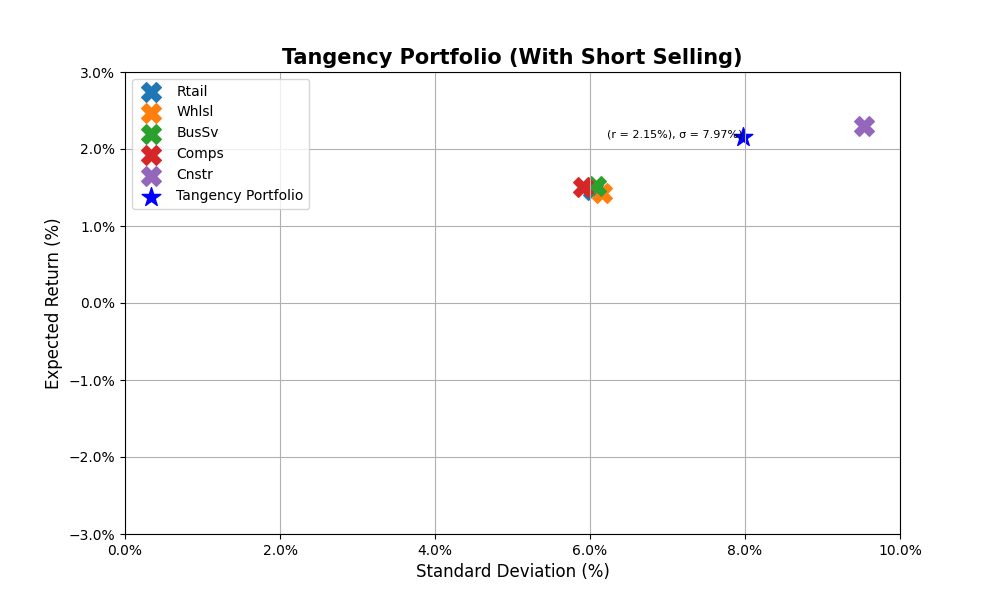
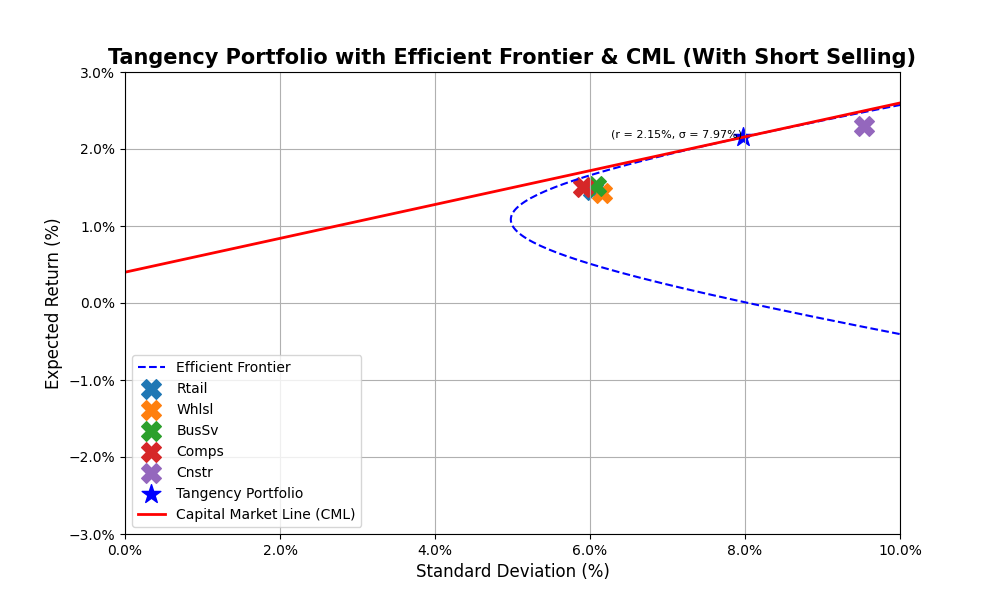
send

diff --git a/Projet.py b/Projet.py
@@ -61,129 +61,59 @@ n_assets = len(expected_returns)
 ones = np.ones(n_assets)
 
 def calculate_mvp_weights(cov_matrix, allow_short_selling=False):
-    """
-    Calculate Minimum Variance Portfolio (MVP) weights using an analytical approach.
-
-    Parameters:
-    -----------
-    cov_matrix : np.array
-        Covariance matrix of asset returns
-    allow_short_selling : bool, optional
-        Whether to allow negative weights (default: False)
-
-    Returns:
-    --------
-    np.array: MVP weights
-    """
     num_assets = cov_matrix.shape[0]
     ones = np.ones(num_assets)
-
-    # Compute the inverse of the covariance matrix
     inv_cov_matrix = np.linalg.inv(cov_matrix)
-
-    # Calculate MVP parameters
-    A = ones.T @ inv_cov_matrix @ ones  # Scalar value
+    A = ones.T @ inv_cov_matrix @ ones
     B = ones.T @ inv_cov_matrix @ expected_returns
-    mvp_weights = (inv_cov_matrix @ ones) / A  # MVP weights formula
-
+    mvp_weights = (inv_cov_matrix @ ones) / A
     if allow_short_selling:
         return mvp_weights
     else:
-        # If short-selling is NOT allowed, use numerical optimization to enforce constraints
-        from scipy.optimize import minimize
-
-        # Constraints: sum of weights = 1
         constraints = [{'type': 'eq', 'fun': lambda x: np.sum(x) - 1}]
-        bounds = [(0, 1) for _ in range(num_assets)]  # No short selling
-
-        # Initial guess: Equal weights
+        bounds = [(0, 1) for _ in range(num_assets)]
         initial_weights = np.ones(num_assets) / num_assets
-
-        # Optimization
-        result = minimize(
-            lambda w: w.T @ cov_matrix @ w,  # Minimize portfolio variance
-            initial_weights,
-            method='SLSQP',
-            bounds=bounds,
-            constraints=constraints
-        )
-
+        result = minimize(lambda w: w.T @ cov_matrix @ w, initial_weights, method='SLSQP', bounds=bounds, constraints=constraints)
         if result.success:
             return result.x
         else:
             raise ValueError("Optimization failed: " + result.message)
 
 def plot_efficient_frontier(returns, expected_returns, cov_matrix, mvp_weights):
-    """
-    Plot the efficient frontier with industries and MVP point
-    
-    Parameters:
-    -----------
-    returns : pd.DataFrame
-        Returns data
-    expected_returns : pd.Series
-        Expected returns for each asset
-    cov_matrix : pd.DataFrame
-        Covariance matrix
-    mvp_weights : np.array
-        MVP portfolio weights
-    """
-    # Calculate MVP return and risk
-    mvp_return = np.dot(mvp_weights, expected_returns) 
+    mvp_return = np.dot(mvp_weights, expected_returns)
     mvp_risk = np.sqrt(mvp_weights.T @ cov_matrix @ mvp_weights)
-        
-    # Convert to percentages for plotting
     mvp_return_plot = mvp_return * 100
     mvp_risk_plot = mvp_risk * 100
     
+    mu_vals = np.linspace(min(expected_returns) - 0.02, max(expected_returns) + 0.04, 300)
+    ones = np.ones(len(expected_returns))
+    inv_cov = np.linalg.inv(cov_matrix)
+    A = ones.T @ inv_cov @ ones
+    B = ones.T @ inv_cov @ expected_returns
+    C = expected_returns.T @ inv_cov @ expected_returns
+    Delta = A * C - B**2
+    sigma_vals = np.sqrt(np.maximum((A * mu_vals**2 - 2 * B * mu_vals + C) / Delta, 0)) * 100
+    
     plt.figure(figsize=(10, 6))
     plt.grid(True)
+    plt.plot(sigma_vals, mu_vals * 100, label="Efficient Frontier", color="blue")
     
-    # Plot individual industries
     for industry in expected_returns.index:
-        plt.scatter(returns[industry].std()* 100, 
-                   expected_returns[industry] * 100,
-                   marker='X', s=200, label=industry)
+        plt.scatter(returns[industry].std() * 100, expected_returns[industry] * 100, marker='X', s=200, label=industry)
     
-    # Plot MVP point
-    plt.scatter(mvp_risk_plot, mvp_return_plot, 
-               color="red", marker="*", s=200, 
-               label="Minimum Variance Portfolio")
+    plt.scatter(mvp_risk_plot, mvp_return_plot, color="red", marker="*", s=200, label="Minimum Variance Portfolio")
+    plt.annotate(f"(r = {mvp_return_plot:.2f}%, σ = {mvp_risk_plot:.2f}%)", (mvp_risk_plot, mvp_return_plot), xytext=(10, 10), textcoords='offset points', fontsize=8)
     
-    # Add MVP coordinates
-    plt.annotate(f"(r = {mvp_return_plot:.2f}%, σ = {mvp_risk_plot:.2f}%)",
-                (mvp_risk_plot, mvp_return_plot),
-                xytext=(10, 10), textcoords='offset points',
-                fontsize=8)
-    
-    # Format axes
     plt.gca().xaxis.set_major_formatter(mtick.PercentFormatter())
     plt.gca().yaxis.set_major_formatter(mtick.PercentFormatter())
-    
-    plt.xlim(0, 10)
-    plt.ylim(-3, 3)
-    
-    # Labels and title
     plt.xlabel("Standard Deviation (%)", fontsize=12)
     plt.ylabel("Expected Return (%)", fontsize=12)
-    plt.title("Efficient Frontier with MVP (With Short Selling)", 
-             fontsize=15, fontweight='bold')
+    plt.title("Efficient Frontier with MVP (With Short Selling)", fontsize=15, fontweight='bold')
     plt.legend()
-    
     plt.savefig("efficient_frontierA1.png", bbox_inches='tight', dpi=300)
     plt.show()
 
-# Convert percentage returns to decimal
-returns = portfolios_data / 100
-returns = returns.dropna()
-
-expected_returns = returns.mean()
-cov_matrix = returns.cov()
-
-# Calculate MVP weights
 mvp_weights = calculate_mvp_weights(cov_matrix, allow_short_selling=True)
-
-# Plot the efficient frontier
 plot_efficient_frontier(returns, expected_returns, cov_matrix, mvp_weights)
 
 
@@ -266,6 +196,18 @@ tangency_sharpe_ratio = tangency_portfolio['sharpe_ratio']
 # Remove the old MVP point
 plt.figure(figsize=(10, 6))
 
+# Generate efficient frontier
+mu_vals = np.linspace(min(expected_returns) - 0.02, max(expected_returns) + 0.04, 300)
+ones = np.ones(len(expected_returns))
+inv_cov = np.linalg.inv(cov_matrix)
+A = ones.T @ inv_cov @ ones
+B = ones.T @ inv_cov @ expected_returns
+C = expected_returns.T @ inv_cov @ expected_returns
+Delta = A * C - B**2
+sigma_vals = np.sqrt(np.maximum((A * mu_vals**2 - 2 * B * mu_vals + C) / Delta, 0)) * 100
+
+# Plot the Efficient Frontier (Parabola)
+plt.plot(sigma_vals, mu_vals * 100, label="Efficient Frontier", color="blue", linestyle='dashed')
 
 # Mark each individual industry on the plot
 for industry in expected_returns.index:
@@ -277,7 +219,15 @@ plt.scatter(tangency_risk * 100, tangency_return * 100, color="blue", marker="*"
 
 # Annotate the tangency portfolio point
 plt.text(tangency_risk * 100, tangency_return * 100, 
-         f"(r = {tangency_return*100:.2f}%), σ = {tangency_risk*100:.2f}%)", fontsize=8, ha='right')
+         f"(r = {tangency_return*100:.2f}%, σ = {tangency_risk*100:.2f}%)", fontsize=8, ha='right')
+
+# ---- ADDING CML ---- #
+# Define the Capital Market Line (CML)
+cml_x = np.linspace(0, 10, 100)  # From risk-free to high risk
+cml_y = rf_rate * 100 + ((tangency_return - rf_rate) / tangency_risk) * cml_x
+
+# Plot the CML
+plt.plot(cml_x, cml_y, label="Capital Market Line (CML)", color="red", linestyle="solid", linewidth=2)
 
 # Format axes as percentages
 plt.gca().xaxis.set_major_formatter(mtick.PercentFormatter())
@@ -289,12 +239,11 @@ plt.ylim(-3, 3)
 # Labels and title
 plt.xlabel("Standard Deviation (%)", fontsize=12)
 plt.ylabel("Expected Return (%)", fontsize=12)
-plt.title("Tangency Portfolio (With Short Selling)", fontsize=15, fontweight='bold')
+plt.title("Tangency Portfolio with Efficient Frontier & CML (With Short Selling)", fontsize=15, fontweight='bold')
 plt.legend()
 plt.grid(True)
 plt.savefig("efficient_frontier_cmlA2.png")
 plt.show()
-
 
 
 
